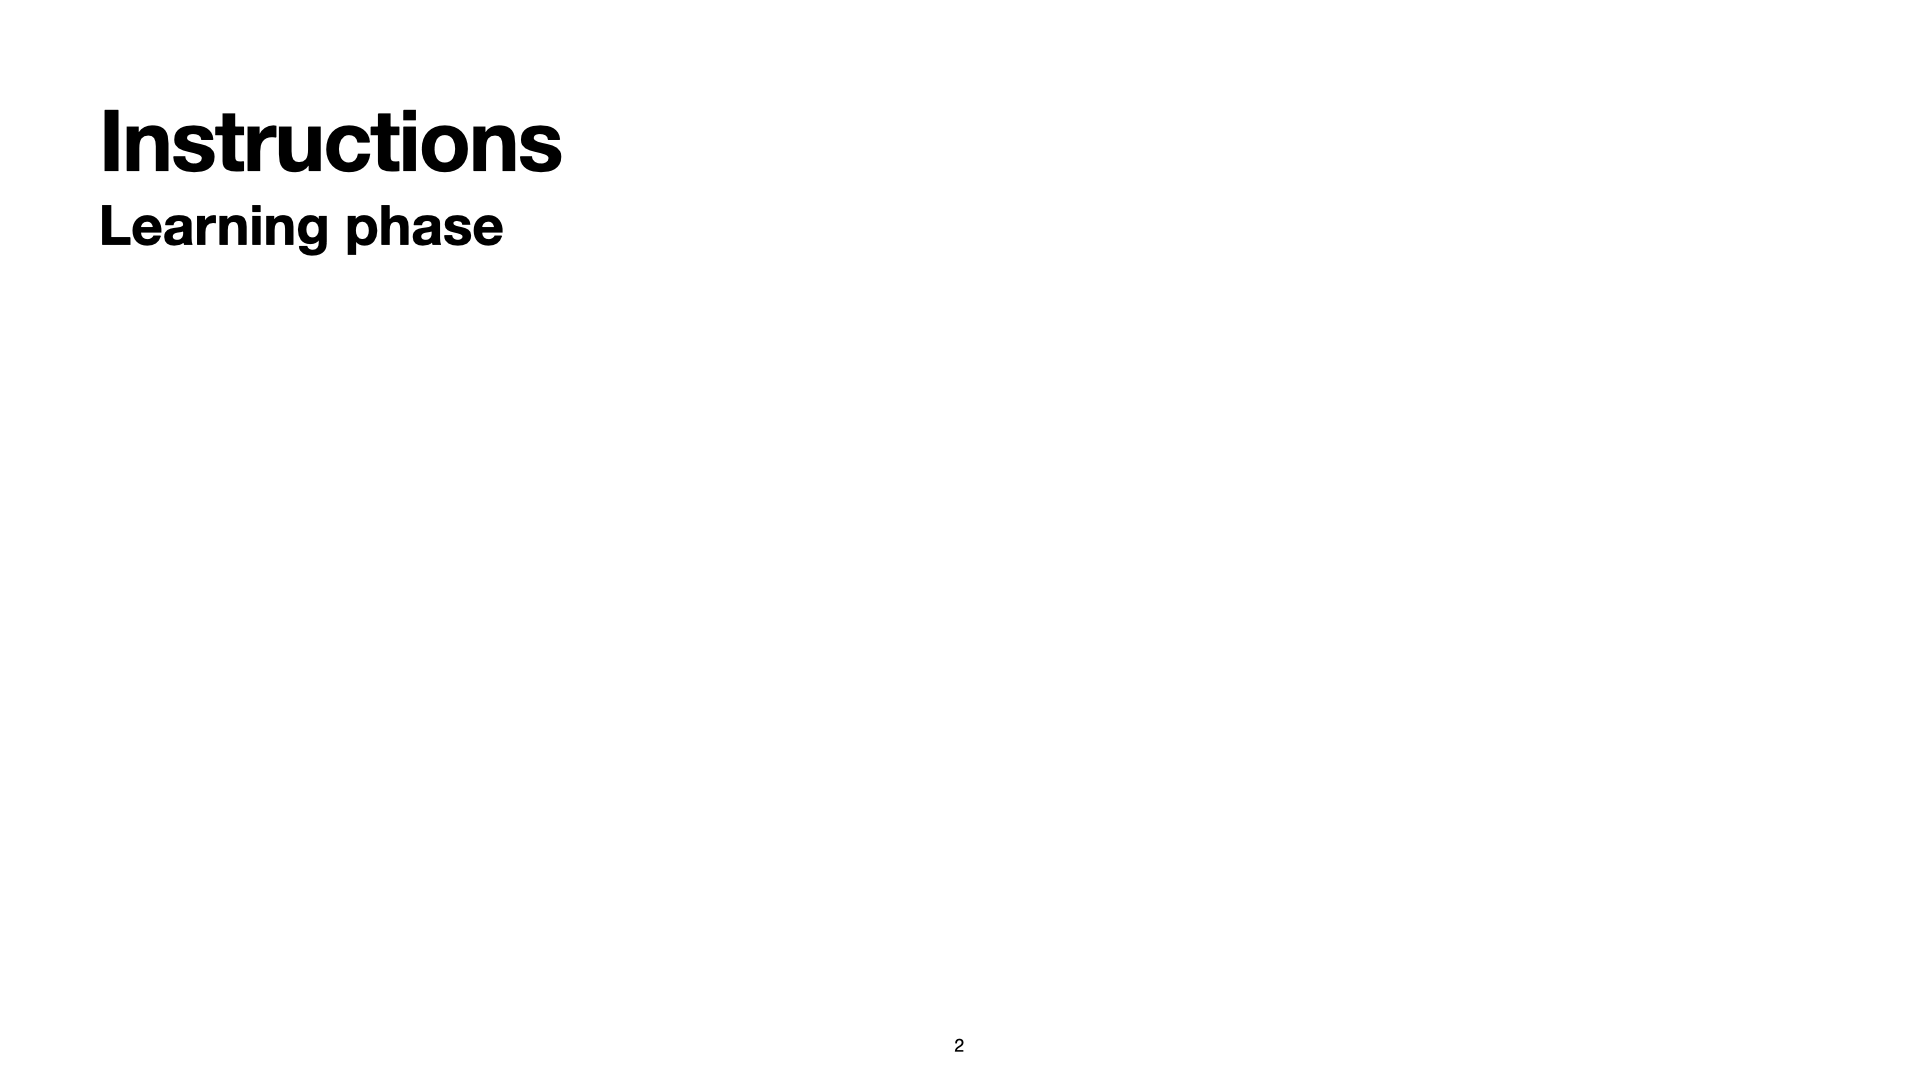
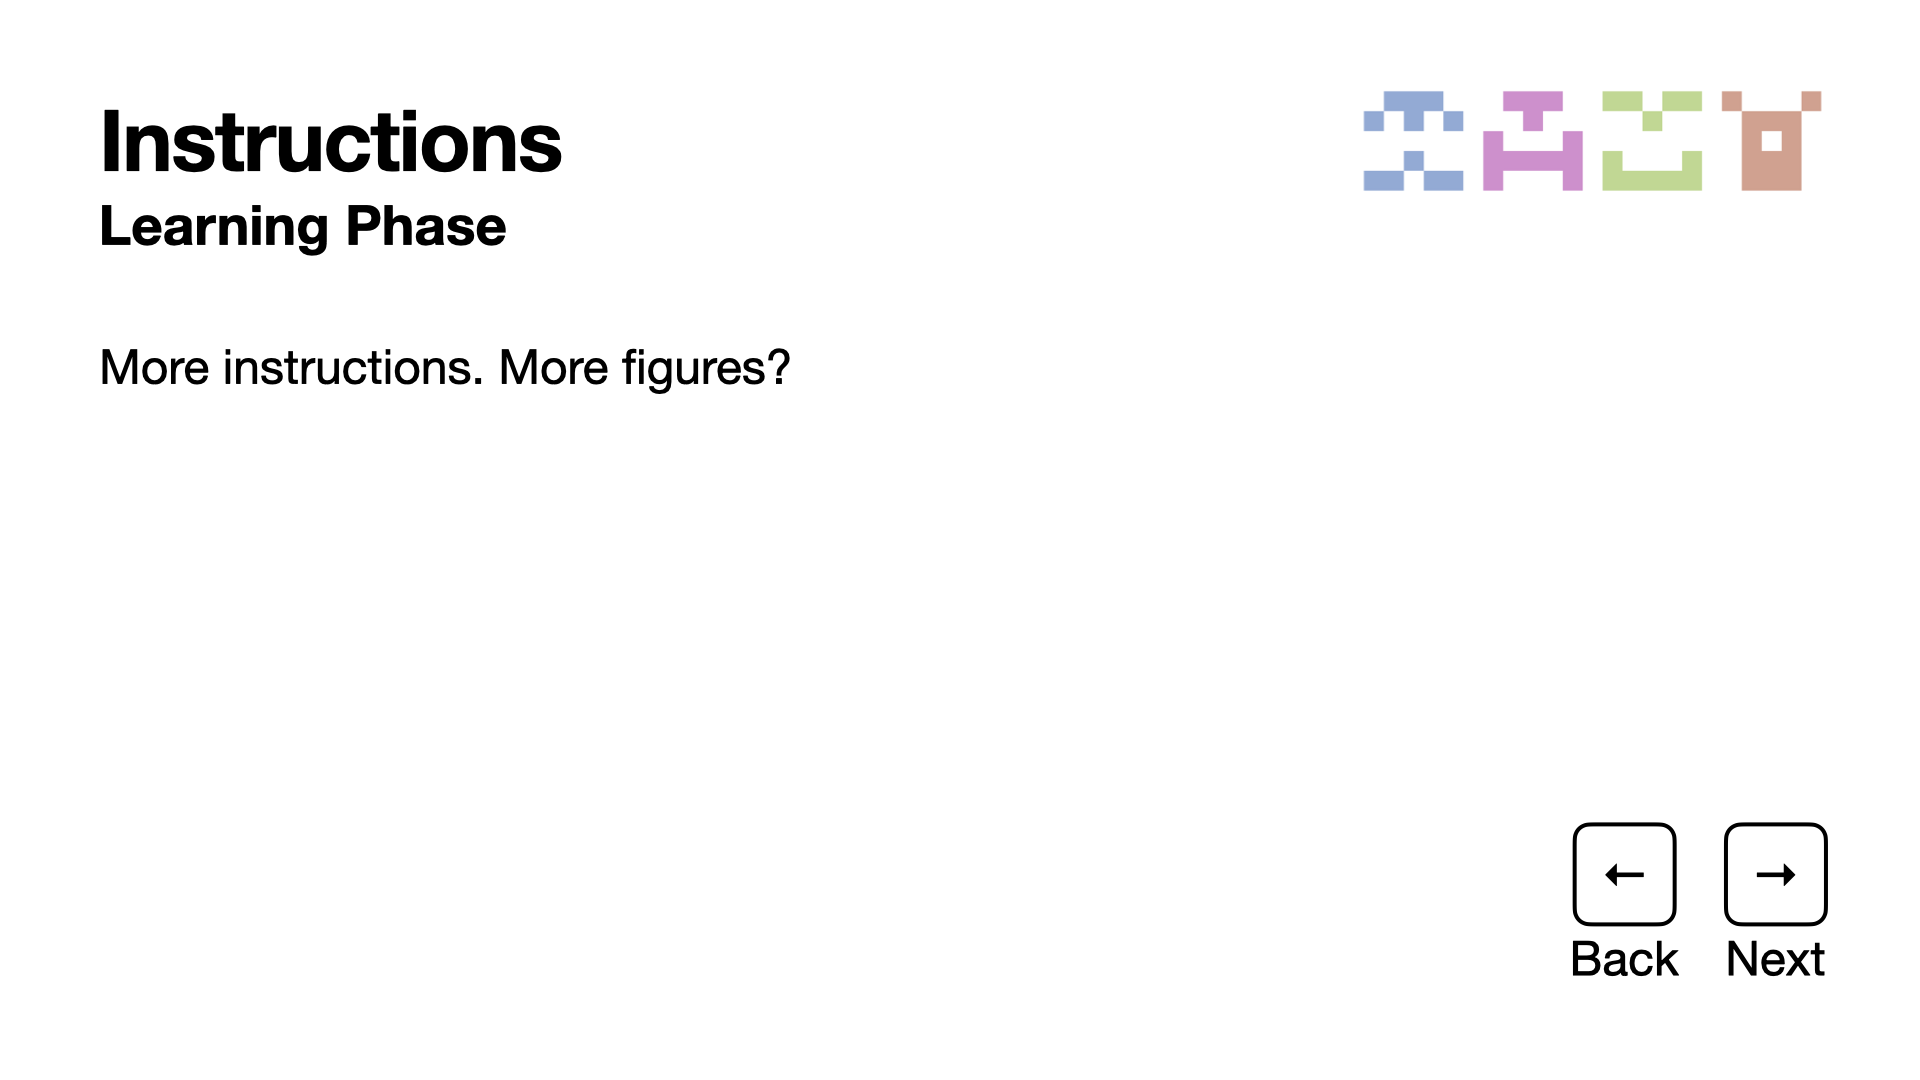
added exemplary image slides for learning phase

diff --git a/task.py b/task.py
@@ -2,6 +2,18 @@
 # -*- coding: utf-8 -*-
 
 """
+Two-Armed-Bandit Reinforcement-Learning-Task
+with training, learning, transfer, and explicit phases,
+and options to control feedback information.
+Modelled after Bavard et al. (2021) and Gueguen et al. (2024)
+
+For documentation beyond this file, see:
+https://github.com/moltaire/rl-context-task
+
+References:
+- Bavard, S., Rustichini, A., & Palminteri, S. (2021). Two sides of the same coin: Beneficial and detrimental consequences of range adaptation in human reinforcement learning. Science Advances, 7(14), eabe0340. https://doi.org/10.1126/sciadv.abe0340
+- Gueguen, M. C. M., Anlló, H., Bonagura, D., Kong, J., Hafezi, S., Palminteri, S., & Konova, A. B. (2024). Recent Opioid Use Impedes Range Adaptation in Reinforcement Learning in Human Addiction. Biological Psychiatry, 95(10), 974–984. https://doi.org/10.1016/j.biopsych.2023.12.005
+
 Felix Molter
 2025-02-03
 felixmolter@gmail.com
@@ -235,6 +247,19 @@ if __name__ == "__main__":
             color=text_color,
         )
         for i in range(n_slides)
+    ]
+
+    ### Image slides
+    instr_slides_learning = [
+        ImageSlide(
+            win=win,
+            image=join(
+                "instructions",
+                "learning-phase",
+                f"rl-context-task_instructions_learning-phase.{i:03d}.png",
+            ),
+        )
+        for i in [1, 2, 3]
     ]
 
     ## Transfer phase

diff --git a/readme.md b/readme.md
@@ -54,8 +54,8 @@ Stimulus images are made with the [Identicon generator](http://identicon.net/).
 - [ ] fix bug with random seed. currently, changing it in the GUI doesnt do anything
 - [ ] Test random icon mapping with full logfile
 - [ ] Double check temporal arrangement options. I think there should also be randomization if this is "blocked".
-- [ ] Fix ImageSlide instructions
 - [ ] Include serial port triggers
+- [x] Fix ImageSlide instructions
 - [x] ~~End screen message can be SlideShow, too~~
 - [x] ~~Remove unnecessary "exp_info" in main script. only necessary within functions~~
 - [x] ~~Include intermediate points tally~~
